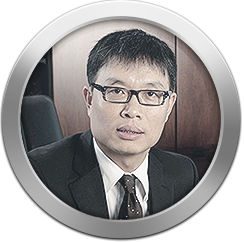
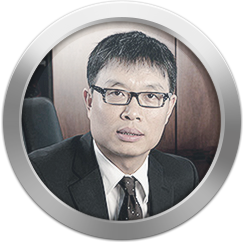
CEO Fix

diff --git a/media/css/styles.css b/media/css/styles.css
@@ -265,7 +265,7 @@ box-shadow: inset 0px -15px 9px -15px #666;}
 #ceosection #ceoarea #ceoquote {font-size: 24px; color: #231f20; width:600px; float:left; padding-top: 70px;}
 #ceosection #ceoarea #ceoquote #ceoname {  font-family:'helveticaneue', sans-serif;font-size: 14px; text-align: right; color: #888; margin-top: 15px; font-style: normal;}
 #ceosection #ceoarea #ceoquote #ceoname span { font-family:'helveticaneuebold', sans-serif;}
-#ceoimg {height: 245px; width: 245px; float: right; background: url(../img/lib/CEO.png);}
+#ceoimg {height: 242px; width: 245px; float: right; background: url(../img/lib/CEO.png);}
 
 .nosotroscontenido .columna {display:inline-block; width:30%; padding: 0px 12px;}
 .nosotroscontenido .columna .numero {color:#00acee; font-size:100px; font-family:'helveticaneuebold', sans-serif;}
